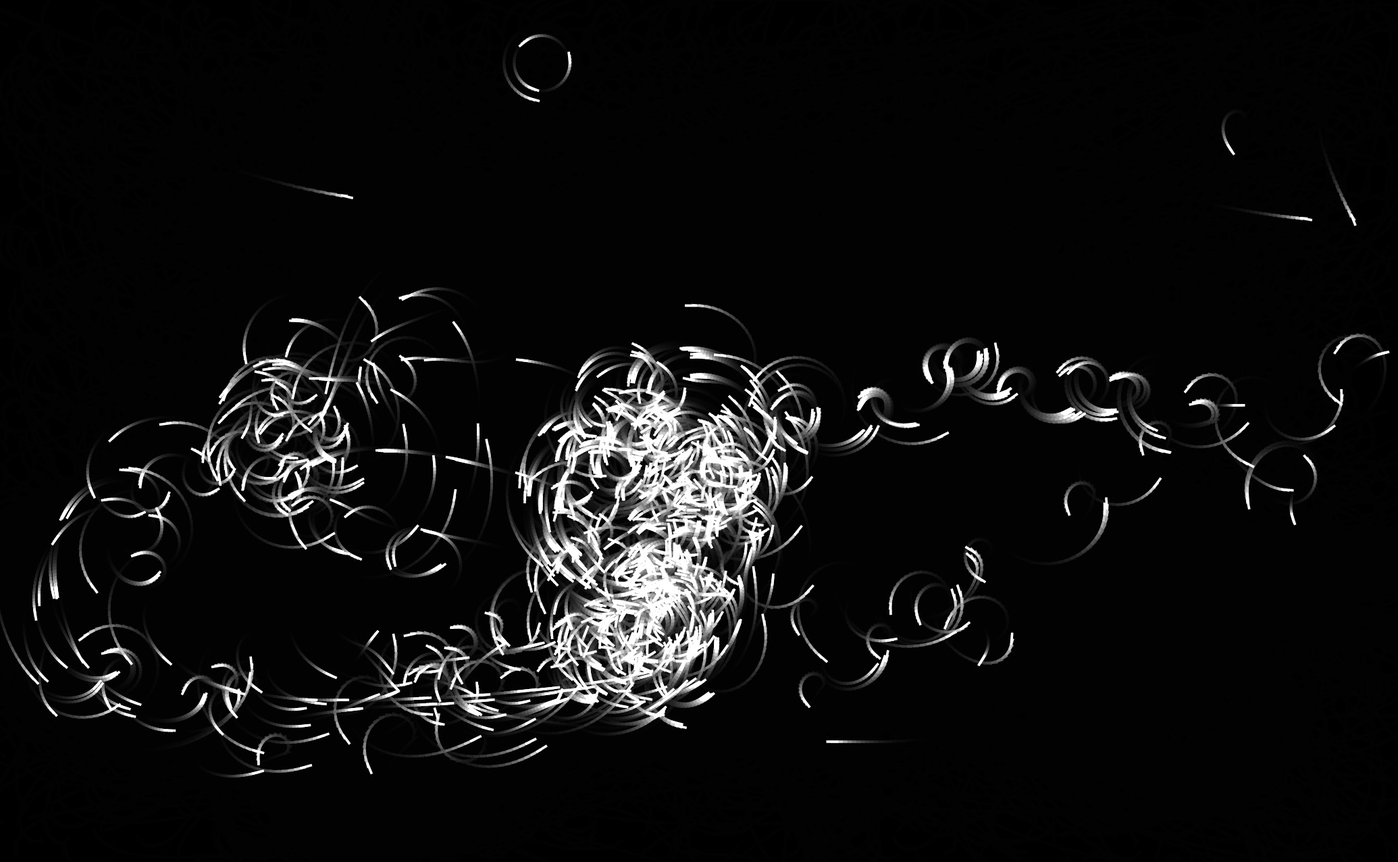
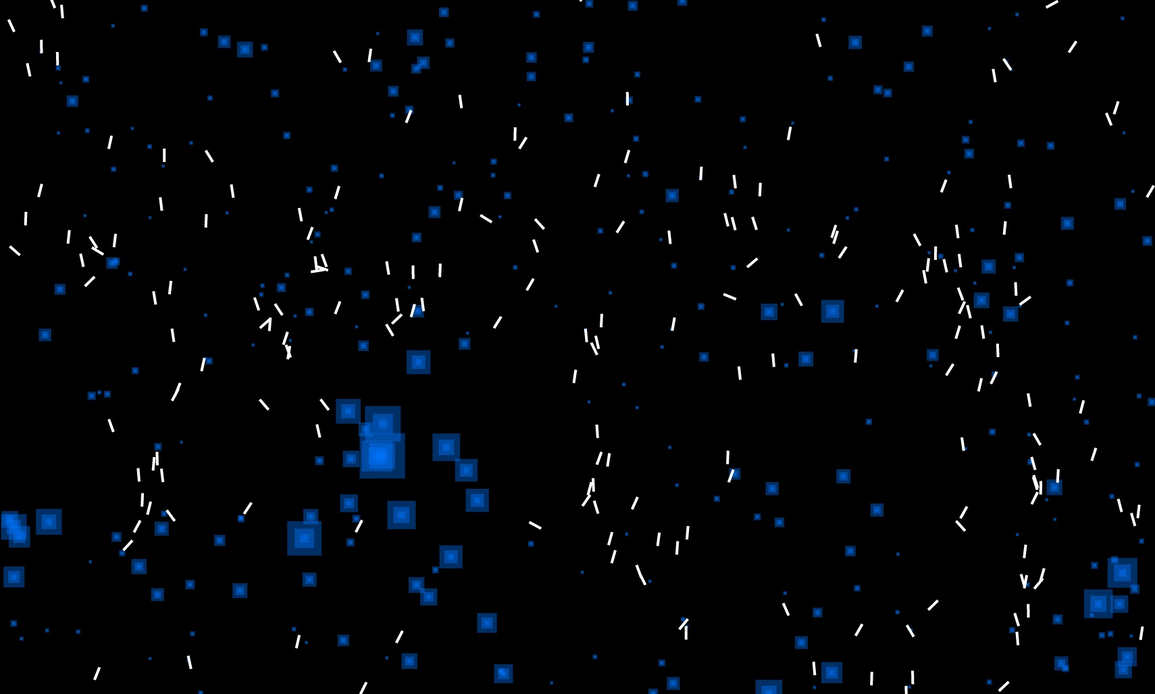
003 build

diff --git a/003-feeding-time/bundle.js b/003-feeding-time/bundle.js
@@ -1,11 +1,11 @@
 (function(){function r(e,n,t){function o(i,f){if(!n[i]){if(!e[i]){var c="function"==typeof require&&require;if(!f&&c)return c(i,!0);if(u)return u(i,!0);var a=new Error("Cannot find module '"+i+"'");throw a.code="MODULE_NOT_FOUND",a}var p=n[i]={exports:{}};e[i][0].call(p.exports,function(r){var n=e[i][1][r];return o(n||r)},p,p.exports,r,e,n,t)}return n[i].exports}for(var u="function"==typeof require&&require,i=0;i<t.length;i++)o(t[i]);return o}return r})()({1:[function(require,module,exports){
-"use strict";var Simplex=require(7),setupRandom=require(5),initializeShortcuts=require(3),_require=require(2),setupCanvas=_require.setupCanvas,loop=_require.loop,generateSeed=_require.generateSeed,lerp=require(6),TAU=2*Math.PI,seed=generateSeed(),random=setupRandom(seed),simplex=new Simplex(random),simplex3=simplex.noise3D.bind(simplex),ctx=setupCanvas();initializeShortcuts(seed);var config={ctx:ctx,seed:seed,random:random,simplex3:simplex3,lonelyRotation:.005,breakoutCount:10,entityCount:2e3,entitySize:10,baseSpeed:2,maxSpeed:5,rotateToBuddy:.1},current={entities:generateEntities(config)};function update(e,t){var i=t.entities,n=(t.time,e.ctx),a=e.entitySize,r=e.maxSpeed,o=e.simplex3,d=e.lonelyRotation,l=n.canvas,u=l.width,s=l.height,h=!0,c=!1,p=void 0;try{for(var y,x=i[Symbol.iterator]();!(h=(y=x.next()).done);h=!0){var m=y.value;null===m.buddy?m.theta=Math.PI*o(m.x*d,m.y*d,m.index):applyBuddyForce(e,m,i[m.buddy]),m.speed=Math.min(m.speed,r),m.x+=Math.cos(m.theta)*m.speed,m.y+=Math.sin(m.theta)*m.speed,m.x<-a?m.x=u+a:m.x>u+a&&(m.x=-a),m.y<-a?m.y=s+a:m.y>s+a&&(m.y=-a)}}catch(e){c=!0,p=e}finally{try{h||null==x.return||x.return()}finally{if(c)throw p}}}function applyBuddyForce(e,t,i){var n=e.rotateToBuddy,a=i.x-t.x,r=i.y-t.y;t.theta=lerpTheta(t.theta,Math.atan2(r,a),n)%TAU,t.speed+=Math.min(1,1/(a*a+r*r)),t.x+=Math.cos(t.theta)*t.speed,t.y+=Math.sin(t.theta)*t.speed}function lerpTheta(e,t,i){return(t=(t%TAU+TAU)%TAU)-(e=(e%TAU+TAU)%TAU)>Math.PI&&(e+=TAU),lerp(e,t,i)}function generateEntities(e){for(var t=e.entityCount,i=e.ctx,n=e.baseSpeed,a=e.random,r=e.breakoutCount,o=i.canvas,d=o.width,l=o.height,u=[],s=0;s<t;s++)u.push({index:s,x:a(d),y:a(l),theta:a(TAU),speed:n,buddy:(s+a(0,t-1,!0))%t});for(var h=0;h<r;h++){var c=u[a(0,u.length,!0)].buddy;null!==c&&(u[c].buddy=null)}return u}function draw(e,t){var i=e.ctx,n=e.entitySize,a=t.entities;t.time;i.fillStyle="#0003",i.fillRect(0,0,i.canvas.width,i.canvas.height),i.lineWidth=2*devicePixelRatio,i.strokeStyle="#fff",i.beginPath();var r=n*devicePixelRatio/2,o=!0,d=!1,l=void 0;try{for(var u,s=a[Symbol.iterator]();!(o=(u=s.next()).done);o=!0){var h=u.value,c=h.x,p=h.y,y=h.theta,x=Math.cos(y)*r,m=Math.sin(y)*r;i.moveTo(c-x,p-m),i.lineTo(c+x,p+m)}}catch(e){d=!0,l=e}finally{try{o||null==s.return||s.return()}finally{if(d)throw l}}i.stroke()}loop(function(e){current.time=e,update(config,current),draw(config,current)}),window.onhashchange=function(){location.reload()},window.addEventListener("resize",function(){});
+"use strict";var Simplex=require(12),setupRandom=require(5),initializeShortcuts=require(3),_require=require(2),setupCanvas=_require.setupCanvas,loop=_require.loop,generateSeed=_require.generateSeed,lerpTheta=_require.lerpTheta,createRtree=require(9),ease=require(6),TAU=2*Math.PI,seed=generateSeed(),random=setupRandom(seed),simplex=new Simplex(random),simplex3=simplex.noise3D.bind(simplex),ctx=setupCanvas();initializeShortcuts(seed);var config={ctx:ctx,seed:seed,random:random,simplex3:simplex3,entityRotation:.5,entityCount:200,entitySize:10,baseEntitySpeed:2,baseEntityFood:10,minSpeed:1,maxSpeed:5,foodCount:300,minGrowthRate:.1,maxGrowthRate:.5,minQuantity:20,maxQuantity:200,foodSize:.5,foodSteps:4,searchRadius:100,minFeedQuantity:5,entitySlowDown:.5,entitySpeedUp:.01,feedRate:.7},rtree=createRtree(),current={rtree:rtree,entities:generateEntities(config),foods:generateFood(config,rtree),now:Date.now(),dt:0};function updateFoods(e,t){var r=!0,n=!1,i=void 0;try{for(var a,o=t.foods[Symbol.iterator]();!(r=(a=o.next()).done);r=!0){var d=a.value;d.quantity=Math.min(d.quantity+d.growthRate,d.maxQuantity)}}catch(e){n=!0,i=e}finally{try{r||null==o.return||o.return()}finally{if(n)throw i}}}function updateEntities(e,t){var r=t.entities,n=t.rtree,i=e.ctx,a=e.entitySize,o=e.maxSpeed,d=e.simplex3,u=e.entityRotation,l=e.searchRadius,s=e.minFeedQuantity,y=e.entitySlowDown,c=e.entitySpeedUp,f=e.feedRate,h=e.minSpeed,v=i.canvas,x=v.width,m=v.height,p=!0,w=!1,S=void 0;try{for(var g,R=r[Symbol.iterator]();!(p=(g=R.next()).done);p=!0){var q=g.value,b=q.x,F=q.y,M=n.bbox(b-l,F-l,b+l,F+l),T=void 0,E=void 0;if(M.length>0){var z=void 0,Q=void 0,C=!0,P=!1,_=void 0;try{for(var D,G=M[Symbol.iterator]();!(C=(D=G.next()).done);C=!0){var U=D.value;if(!(U.quantity<s)){var k=b-U.x,A=F-U.y,I=k*k+A*A;z?I/U.quantity<Q/z.quantity&&(z=U):(z=U,Q=I)}}}catch(e){P=!0,_=e}finally{try{C||null==G.return||G.return()}finally{if(P)throw _}}T=z,E=Q}var L=void 0;T&&T.quantity>10?(L=Math.atan2(q.y-T.y,q.x-T.x),q.speed/=1+y*T.quantity/E,T.quantity-=f):(q.speed*=1+c,q.speed=Math.max(h,q.speed),L=Math.PI*d(q.x*u,q.y*u,q.index)),q.theta=lerpTheta(q.theta,L,.1),q.speed=Math.min(q.speed,o),q.x+=Math.cos(q.theta)*q.speed,q.y+=Math.sin(q.theta)*q.speed,q.x<-a?q.x=x+a:q.x>x+a&&(q.x=-a),q.y<-a?q.y=m+a:q.y>m+a&&(q.y=-a)}}catch(e){w=!0,S=e}finally{try{p||null==R.return||R.return()}finally{if(w)throw S}}}function generateEntities(e){for(var t=e.entityCount,r=e.ctx,n=e.baseEntitySpeed,i=e.baseEntityFood,a=e.random,o=r.canvas,d=o.width,u=o.height,l=[],s=0;s<t;s++)l.push({index:s,x:(ease(a(1,0))+.5)%1*d,y:a(u),food:i,theta:a(TAU),speed:n});return l}function draw(e,t){var r=e.ctx,n=e.entitySize,i=e.foodSize,a=e.foodSteps,o=t.entities,d=t.foods;r.fillStyle="#000",r.fillRect(0,0,r.canvas.width,r.canvas.height),r.fillStyle="#07f6";var u=!0,l=!1,s=void 0;try{for(var y,c=d[Symbol.iterator]();!(u=(y=c.next()).done);u=!0)for(var f=y.value,h=f.quantity,v=f.x,x=f.y,m=h*i,p=1;p<=a;p++){var w=m*Math.pow(p/a,2);r.fillRect(v-.5*w,x-.5*w,w,w)}}catch(e){l=!0,s=e}finally{try{u||null==c.return||c.return()}finally{if(l)throw s}}r.lineWidth=2*devicePixelRatio,r.strokeStyle="#fff",r.beginPath();var S=n*devicePixelRatio,g=!0,R=!1,q=void 0;try{for(var b,F=o[Symbol.iterator]();!(g=(b=F.next()).done);g=!0){var M=b.value,T=M.x,E=M.y,z=M.theta,Q=Math.cos(z)*S,C=Math.sin(z)*S;r.moveTo(T,E),r.lineTo(T-Q,E-C)}}catch(e){R=!0,q=e}finally{try{g||null==F.return||F.return()}finally{if(R)throw q}}r.stroke()}function generateFood(e,t){for(var r=e.minQuantity,n=e.maxQuantity,i=e.minGrowthRate,a=e.maxGrowthRate,o=e.random,d=e.foodCount,u=e.ctx.canvas,l=u.width,s=u.height,y=[],c=0;c<d;c++){var f=o(r,n,!0);y.push({maxQuantity:f,quantity:o(f),x:o()*l,y:o()*s,growthRate:o(i,a)})}return addFoodsToRtree(y,t),y}function addFoodsToRtree(e,t){var r=!0,n=!1,i=void 0;try{for(var a,o=e[Symbol.iterator]();!(r=(a=o.next()).done);r=!0){var d=a.value;t.insert({x:d.x-.5,y:d.y-.5,w:1,h:1},d)}}catch(e){n=!0,i=e}finally{try{r||null==o.return||o.return()}finally{if(n)throw i}}}loop(function(e){current.dt=e-current.time,current.time=e,updateFoods(config,current),updateEntities(config,current),draw(config,current)}),window.addEventListener("resize",function(){current.rtree=createRtree();var e=!0,t=!1,r=void 0;try{for(var n,i=current.foods[Symbol.iterator]();!(e=(n=i.next()).done);e=!0){var a=n.value;a.x=random()*ctx.canvas.width,a.y=random()*ctx.canvas.height}}catch(e){t=!0,r=e}finally{try{e||null==i.return||i.return()}finally{if(t)throw r}}addFoodsToRtree(current.foods,current.rtree)}),window.current=current,window.config=config;
 
-},{"2":2,"3":3,"5":5,"6":6,"7":7}],2:[function(require,module,exports){
-"use strict";function setupCanvas(){var e=document.createElement("canvas");function n(){e.width=window.innerWidth*devicePixelRatio,e.height=window.innerHeight*devicePixelRatio}return document.body.appendChild(e),n(),window.addEventListener("resize",n,!1),e.getContext("2d",{alpha:!1})}function loop(e){var n=Date.now();requestAnimationFrame(function t(){e((Date.now()-n)/1e3),requestAnimationFrame(t)})}function generateSeed(){var e=window.location.hash.substr(1)||String(Math.random()).split(".")[1];return console.log("current seed",e),e}module.exports={setupCanvas:setupCanvas,loop:loop,generateSeed:generateSeed};
+},{"12":12,"2":2,"3":3,"5":5,"6":6,"9":9}],2:[function(require,module,exports){
+"use strict";var lerp=require(7);function setupCanvas(){var e=document.createElement("canvas");function n(){e.width=window.innerWidth*devicePixelRatio,e.height=window.innerHeight*devicePixelRatio}return document.body.appendChild(e),n(),window.addEventListener("resize",n,!1),e.getContext("2d",{alpha:!1})}function loop(e){var n=Date.now();requestAnimationFrame(function t(){e((Date.now()-n)/1e3),requestAnimationFrame(t)})}function generateSeed(){var e=window.location.hash.substr(1)||String(Math.random()).split(".")[1];return console.log("current seed",e),window.onhashchange=function(){location.reload()},e}var TAU=Math.PI;function lerpTheta(e,n,t){return(n=(n%TAU+TAU)%TAU)-(e=(e%TAU+TAU)%TAU)>Math.PI&&(e+=TAU),lerp(e,n,t)}module.exports={setupCanvas:setupCanvas,loop:loop,generateSeed:generateSeed,lerpTheta:lerpTheta};
 
-},{}],3:[function(require,module,exports){
-"use strict";function _click(e){var t=document.querySelector(e);t&&t.click()}module.exports=function(e,t){console.log(["Available shortcuts:","f: enter fullscreen","h: hide the ui","r: reload the ui","s: create a screenshot link","u: save the current seed to the URL","left: previous session","right: next session"].join("\n")),window.addEventListener("keydown",function(n){switch(n.key){case"h":document.body.classList.toggle("hide-ui");break;case"r":window.location.reload();break;case"s":var o=document.querySelector("canvas");if(!o){console.log("Could not find a canvas element to screenshot");break}var c=document.querySelector(".download-link");c||((c=document.createElement("a")).className="download-link",document.body.appendChild(c),c.innerHTML="Download Screenshot",c.target="_blank",c.addEventListener("click",function(){c.style.display="none"})),c.href=o.toDataURL(),c.style.display="inline-block";break;case"u":history.pushState(null,document.title,window.location.pathname+"#"+e);break;case"f":if(document.fullscreenElement)document.exitFullscreen&&document.exitFullscreen();else{var l=document.querySelector("canvas");l.requestFullscreen&&l.requestFullscreen()}t&&t();break;case"ArrowLeftt":_click("#prev");break;case"ArrowRight":_click("#next")}},!1)};
+},{"7":7}],3:[function(require,module,exports){
+"use strict";function _click(e){var n=document.querySelector(e);n&&n.click()}module.exports=function(e,n){console.log(["Available shortcuts:","f: enter fullscreen","h: hide the ui","r: reload the ui","s: create a screenshot link","u: save the current seed to the URL","left: previous session","right: next session"].join("\n")),window.addEventListener("keydown",function(t){switch(t.key){case"h":document.body.classList.toggle("hide-ui");break;case"r":window.location.reload();break;case"s":var o=document.querySelector("canvas");if(!o){console.log("Could not find a canvas element to screenshot");break}var c=document.querySelector(".download-link");c||((c=document.createElement("a")).className="download-link",document.body.appendChild(c),c.innerHTML="Download Screenshot",c.target="_blank",c.addEventListener("click",function(){c.style.display="none"})),c.href=o.toDataURL(),c.style.display="inline-block";break;case"u":history.pushState(null,document.title,window.location.pathname+"#"+e);break;case"f":if(document.fullscreenElement)document.exitFullscreen&&document.exitFullscreen();else{var l=document.querySelector("canvas");l.requestFullscreen&&l.requestFullscreen()}n&&n();break;case"ArrowLeft":_click("#prev");break;case"ArrowRight":_click("#next")}},!1)};
 
 },{}],4:[function(require,module,exports){
 function _mashFn(){var r=4022871197;return function(n){n=n.toString();for(var t=0;t<n.length;t++){var e=.02519603282416938*(r+=n.charCodeAt(t));e-=r=e>>>0,r=(e*=r)>>>0,r+=4294967296*(e-=r)}return 2.3283064365386963e-10*(r>>>0)}}module.exports=function(){var r=Array.prototype.slice.call(arguments),n=0,t=0,e=0,a=1;0===r.length&&(r=[+new Date]);var o=_mashFn();n=t=e=o(" ");for(var u=0;u<r.length;u++)(n-=o(r[u]))<0&&(n+=1),(t-=o(r[u]))<0&&(t+=1),(e-=o(r[u]))<0&&(e+=1);return function(){var r=2091639*n+2.3283064365386963e-10*a;return n=t,t=e,e=r-(a=0|r)}};
@@ -14,9 +14,24 @@ function _mashFn(){var r=4022871197;return function(n){n=n.toString();for(var t=
 var Alea=require(4);module.exports=function(){var r=Alea.apply(this,arguments);return function(e,a,n){a=void 0===a?1:a;var t=(e=void 0===e?0:e)+r()*(a-e);return n?parseInt(t,10):t}};
 
 },{"4":4}],6:[function(require,module,exports){
-function lerp(e,r,l){return e*(1-l)+r*l}module.exports=lerp;
+function sineInOut(n){return-.5*(Math.cos(Math.PI*n)-1)}module.exports=sineInOut;
 
 },{}],7:[function(require,module,exports){
+function lerp(e,r,l){return e*(1-l)+r*l}module.exports=lerp;
+
+},{}],8:[function(require,module,exports){
+"use strict";var rectangle=require(10),bbox=function(e,o){if(o&&o.bbox)return{leaf:o,x:o.bbox[0],y:o.bbox[1],w:o.bbox[2]-o.bbox[0],h:o.bbox[3]-o.bbox[1]};for(var t=e.length,r=0,n=new Array(t);r<t;)n[r]=[e[r][0],e[r][1]],r++;var a=n[0];t=n.length,r=1;for(var i={min:[].concat(a),max:[].concat(a)};r<t;)n[r][0]<i.min[0]?i.min[0]=n[r][0]:n[r][0]>i.max[0]&&(i.max[0]=n[r][0]),n[r][1]<i.min[1]?i.min[1]=n[r][1]:n[r][1]>i.max[1]&&(i.max[1]=n[r][1]),r++;var c={x:i.min[0],y:i.min[1],w:i.max[0]-i.min[0],h:i.max[1]-i.min[1]};return o&&(c.leaf=o),c},geoJSON={point:function(e,o){return o.insertSubtree({x:e.geometry.coordinates[0],y:e.geometry.coordinates[1],w:0,h:0,leaf:e},o.root)},multiPointLineString:function(e,o){return o.insertSubtree(bbox(e.geometry.coordinates,e),o.root)},multiLineStringPolygon:function(e,o){return o.insertSubtree(bbox(Array.prototype.concat.apply([],e.geometry.coordinates),e),o.root)},multiPolygon:function(e,o){return o.insertSubtree(bbox(Array.prototype.concat.apply([],Array.prototype.concat.apply([],e.geometry.coordinates)),e),o.root)},makeRec:function(e){return rectangle(e.x,e.y,e.w,e.h)},geometryCollection:function(e,o){if(e.bbox)return o.insertSubtree({leaf:e,x:e.bbox[0],y:e.bbox[1],w:e.bbox[2]-e.bbox[0],h:e.bbox[3]-e.bbox[1]},o.root);for(var t,r=e.geometry.geometries,n=0,a=r.length,i=[];n<a;){switch((t=r[n]).type){case"Point":i.push(geoJSON.makeRec({x:t.coordinates[0],y:t.coordinates[1],w:0,h:0}));break;case"MultiPoint":case"LineString":i.push(geoJSON.makeRec(bbox(t.coordinates)));break;case"MultiLineString":case"Polygon":i.push(geoJSON.makeRec(bbox(Array.prototype.concat.apply([],t.coordinates))));break;case"MultiPolygon":i.push(geoJSON.makeRec(bbox(Array.prototype.concat.apply([],Array.prototype.concat.apply([],t.coordinates)))));break;case"GeometryCollection":a=(r=r.concat(t.geometries)).length}n++}var c=i[0];for(n=1,a=i.length;n<a;)c.expand(i[n]),n++;return o.insertSubtree({leaf:e,x:c.x(),y:c.y(),h:c.h(),w:c.w()},o.root)}};exports.geoJSON=function(e){var o,t;if(Array.isArray(e))o=e.slice();else if(e.features&&Array.isArray(e.features))o=e.features.slice();else{if(!(e instanceof Object))throw"this isn't what we're looking for";o=[e]}for(var r=o.length,n=0;n<r;){if("Feature"===(t=o[n]).type)switch(t.geometry.type){case"Point":geoJSON.point(t,this);break;case"MultiPoint":case"LineString":geoJSON.multiPointLineString(t,this);break;case"MultiLineString":case"Polygon":geoJSON.multiLineStringPolygon(t,this);break;case"MultiPolygon":geoJSON.multiPolygon(t,this);break;case"GeometryCollection":geoJSON.geometryCollection(t,this)}n++}},exports.bbox=function(){var e,o,t,r;switch(arguments.length){case 1:e=arguments[0][0][0],o=arguments[0][0][1],t=arguments[0][1][0],r=arguments[0][1][1];break;case 2:e=arguments[0][0],o=arguments[0][1],t=arguments[1][0],r=arguments[1][1];break;case 4:e=arguments[0],o=arguments[1],t=arguments[2],r=arguments[3]}return this.search({x:e,y:o,w:t-e,h:r-o})};
+
+},{"10":10}],9:[function(require,module,exports){
+"use strict";var RTree=require(11),geojson=require(8);RTree.prototype.bbox=geojson.bbox,RTree.prototype.geoJSON=geojson.geoJSON,RTree.Rectangle=require(10),module.exports=RTree;
+
+},{"10":10,"11":11,"8":8}],10:[function(require,module,exports){
+"use strict";function Rectangle(n,t,e,r){if(!(this instanceof Rectangle))return new Rectangle(n,t,e,r);var x,i,u;n.x?(e=n.w,r=n.h,t=n.y,0!==n.w&&!n.w&&n.x2?(e=n.x2-n.x,r=n.y2-n.y):(e=n.w,r=n.h),n=n.x,x=n+e,i=t+r,u=!(r+e)):(x=n+e,i=t+r,u=!(r+e)),this.x1=this.x=function(){return n},this.y1=this.y=function(){return t},this.x2=function(){return x},this.y2=function(){return i},this.w=function(){return e},this.h=function(){return r},this.p=function(){return u},this.overlap=function(e){return u||e.p()?n<=e.x2()&&x>=e.x()&&t<=e.y2()&&i>=e.y():n<e.x2()&&x>e.x()&&t<e.y2()&&i>e.y()},this.expand=function(u){var y,c,h=u.x(),a=u.y(),o=u.x2(),f=u.y2();return y=n>h?h:n,c=t>a?a:t,e=x>o?x-y:o-y,r=i>f?i-c:f-c,n=y,t=c,this}}Rectangle.overlapRectangle=function(n,t){return 0===n.h&&0===n.w||0===t.h&&0===t.w?n.x<=t.x+t.w&&n.x+n.w>=t.x&&n.y<=t.y+t.h&&n.y+n.h>=t.y:n.x<t.x+t.w&&n.x+n.w>t.x&&n.y<t.y+t.h&&n.y+n.h>t.y},Rectangle.containsRectangle=function(n,t){return n.x+n.w<=t.x+t.w&&n.x>=t.x&&n.y+n.h<=t.y+t.h&&n.y>=t.y},Rectangle.expandRectangle=function(n,t){var e,r,x=n.x+n.w,i=t.x+t.w,u=n.y+n.h,y=t.y+t.h;return e=n.x>t.x?t.x:n.x,r=n.y>t.y?t.y:n.y,n.w=x>i?x-e:i-e,n.h=u>y?u-r:y-r,n.x=e,n.y=r,n},Rectangle.makeMBR=function(n,t){if(!n.length)return{x:0,y:0,w:0,h:0};(t=t||{}).x=n[0].x,t.y=n[0].y,t.w=n[0].w,t.h=n[0].h;for(var e=1,r=n.length;e<r;e++)Rectangle.expandRectangle(t,n[e]);return t},Rectangle.squarifiedRatio=function(n,t,e){var r=(n+t)/2,x=n*t;return x*e/(x/(r*r))},module.exports=Rectangle;
+
+},{}],11:[function(require,module,exports){
+"use strict";var rectangle=require(10);function RTree(e){if(!(this instanceof RTree))return new RTree(e);var n=3,t=6;isNaN(e)||(n=Math.floor(e/2),t=e);var r={x:0,y:0,w:0,h:0,id:"root",nodes:[]};this.root=r;var a=function(e){for(var n,t=e.slice(),r=[];t.length;)(n=t.pop()).nodes?t=t.concat(n.nodes):n.leaf&&r.push(n);return r},s=function(e,t,r){var s,o,h,i=[],d=[],g=[];if(!e||!rectangle.overlapRectangle(e,r))return g;var f={x:e.x,y:e.y,w:e.w,h:e.h,target:t};for(d.push(r.nodes.length),i.push(r);i.length>0;){if(s=i.pop(),o=d.pop()-1,"target"in f)for(;o>=0;){if(h=s.nodes[o],rectangle.overlapRectangle(f,h)){if(f.target&&"leaf"in h&&h.leaf===f.target||!f.target&&("leaf"in h||rectangle.containsRectangle(h,f))){g="nodes"in h?a(s.nodes.splice(o,1)):s.nodes.splice(o,1),rectangle.makeMBR(s.nodes,s),delete f.target;break}"nodes"in h&&(0,d.push(o),i.push(s),s=h,o=h.nodes.length)}o--}else if("nodes"in f){s.nodes.splice(o+1,1),s.nodes.length>0&&rectangle.makeMBR(s.nodes,s);for(var u=0;u<f.nodes.length;u++)c(f.nodes[u],s);f.nodes=[],0===i.length&&s.nodes.length<=1?(f.nodes=l(s,!0,f.nodes,s),s.nodes=[],i.push(s),d.push(1)):i.length>0&&s.nodes.length<n?(f.nodes=l(s,!0,f.nodes,s),s.nodes=[]):delete f.nodes}else rectangle.makeMBR(s.nodes,s);1}return g},o=function(e){for(var n=i(e);e.length>0;)h(e,n[0],n[1]);return n},h=function(e,t,r){for(var a,s,o,h=rectangle.squarifiedRatio(t.w,t.h,t.nodes.length+1),i=rectangle.squarifiedRatio(r.w,r.h,r.nodes.length+1),l=e.length-1;l>=0;l--){var c=e[l],d={};d.x=Math.min(t.x,c.x),d.y=Math.min(t.y,c.y),d.w=Math.max(t.x+t.w,c.x+c.w)-d.x,d.h=Math.max(t.y+t.h,c.y+c.h)-d.y;var g=Math.abs(rectangle.squarifiedRatio(d.w,d.h,t.nodes.length+2)-h),f={};f.x=Math.min(r.x,c.x),f.y=Math.min(r.y,c.y),f.w=Math.max(r.x+r.w,c.x+c.w)-f.x,f.h=Math.max(r.y+r.h,c.y+c.h)-f.y;var u=Math.abs(rectangle.squarifiedRatio(f.w,f.h,r.nodes.length+2)-i);(!s||!a||Math.abs(u-g)<a)&&(s=l,a=Math.abs(u-g),o=u<g?r:t)}var p=e.splice(s,1)[0];t.nodes.length+e.length+1<=n?(t.nodes.push(p),rectangle.expandRectangle(t,p)):r.nodes.length+e.length+1<=n?(r.nodes.push(p),rectangle.expandRectangle(r,p)):(o.nodes.push(p),rectangle.expandRectangle(o,p))},i=function(e){for(var n,t,r=e.length-1,a=0,s=e.length-1,o=0,h=e.length-2;h>=0;h--){var i=e[h];i.x>e[a].x?a=h:i.x+i.w<e[r].x+e[r].w&&(r=h),i.y>e[o].y?o=h:i.y+i.h<e[s].y+e[s].h&&(s=h)}return Math.abs(e[r].x+e[r].w-e[a].x)>Math.abs(e[s].y+e[s].h-e[o].y)?r>a?(n=e.splice(r,1)[0],t=e.splice(a,1)[0]):(t=e.splice(a,1)[0],n=e.splice(r,1)[0]):s>o?(n=e.splice(s,1)[0],t=e.splice(o,1)[0]):(t=e.splice(o,1)[0],n=e.splice(s,1)[0]),[{x:n.x,y:n.y,w:n.w,h:n.h,nodes:[n]},{x:t.x,y:t.y,w:t.w,h:t.h,nodes:[t]}]},l=function(e,n,t,r){var a=[];if(!rectangle.overlapRectangle(e,r))return t;for(a.push(r.nodes);a.length>0;)for(var s=a.pop(),o=s.length-1;o>=0;o--){var h=s[o];rectangle.overlapRectangle(e,h)&&("nodes"in h?a.push(h.nodes):"leaf"in h&&(n?t.push(h):t.push(h.leaf)))}return t},c=function(e,n){var r;if(0===n.nodes.length)return n.x=e.x,n.y=e.y,n.w=e.w,n.h=e.h,void n.nodes.push(e);for(var a,s=function(e,n){var t,r=-1,a=[],s=!0;a.push(n);for(var o=n.nodes;s||-1!==r;){s?s=!1:(a.push(o[r]),o=o[r].nodes,r=-1);for(var h=o.length-1;h>=0;h--){var i=o[h];if("leaf"in i){r=-1;break}var l=rectangle.squarifiedRatio(i.w,i.h,i.nodes.length+1),c=Math.max(i.x+i.w,e.x+e.w)-Math.min(i.x,e.x),d=Math.max(i.y+i.h,e.y+e.h)-Math.min(i.y,e.y),g=rectangle.squarifiedRatio(c,d,i.nodes.length+2);(r<0||Math.abs(g-l)<t)&&(t=Math.abs(g-l),r=h)}}return a}(e,n),h=e;s.length>0;){if(r&&"nodes"in r&&0===r.nodes.length){a=r,r=s.pop();for(var i=0;i<r.nodes.length;i++)if(r.nodes[i]===a||0===r.nodes[i].nodes.length){r.nodes.splice(i,1);break}}else r=s.pop();if("leaf"in h||"nodes"in h||Array.isArray(h)){if(Array.isArray(h)){for(var l=0;l<h.length;l++)rectangle.expandRectangle(r,h[l]);r.nodes=r.nodes.concat(h)}else rectangle.expandRectangle(r,h),r.nodes.push(h);if(r.nodes.length<=t)h={x:r.x,y:r.y,w:r.w,h:r.h};else{var c=o(r.nodes);h=c,s.length<1&&(r.nodes.push(c[0]),s.push(r),h=c[1])}}else rectangle.expandRectangle(r,h),h={x:r.x,y:r.y,w:r.w,h:r.h}}};this.insertSubtree=c,this.getTree=function(){return r},this.setTree=function(e,n){return n||(n=r),a=e,(t=n).nodes=a.nodes,t.x=a.x,t.y=a.y,t.w=a.w,t.h=a.h,t;var t,a},this.search=function(e,n,t){return l(e,n,t=t||[],r)};this.remove=function(e,n){return n&&"function"!=typeof n?function(e,n){return s(e,n,r)}(e,n):function(e){for(var n,t=1,a=[];t>0;)t=(n=s(e,!1,r)).length,a=a.concat(n);return a}(e)},this.insert=function(e,n){return c({x:e.x,y:e.y,w:e.w,h:e.h,leaf:n},r)}}RTree.prototype.toJSON=function(e){return JSON.stringify(this.root,!1,e)},RTree.fromJSON=function(e){var n=new RTree;return n.setTree(JSON.parse(e)),n},module.exports=RTree,"function"!=typeof Array.isArray&&(Array.isArray=function(e){return"object"==typeof e&&"[object Array]"==={}.toString.call(e)});
+
+},{"10":10}],12:[function(require,module,exports){
 !function(){"use strict";var r=.5*(Math.sqrt(3)-1),e=(3-Math.sqrt(3))/6,t=1/6,a=(Math.sqrt(5)-1)/4,o=(5-Math.sqrt(5))/20;function i(r){var e;e="function"==typeof r?r:r?function(){var r=0,e=0,t=0,a=1,o=(i=4022871197,function(r){r=r.toString();for(var e=0;e<r.length;e++){var t=.02519603282416938*(i+=r.charCodeAt(e));t-=i=t>>>0,i=(t*=i)>>>0,i+=4294967296*(t-=i)}return 2.3283064365386963e-10*(i>>>0)});var i;r=o(" "),e=o(" "),t=o(" ");for(var n=0;n<arguments.length;n++)(r-=o(arguments[n]))<0&&(r+=1),(e-=o(arguments[n]))<0&&(e+=1),(t-=o(arguments[n]))<0&&(t+=1);return o=null,function(){var o=2091639*r+2.3283064365386963e-10*a;return r=e,e=t,t=o-(a=0|o)}}(r):Math.random,this.p=n(e),this.perm=new Uint8Array(512),this.permMod12=new Uint8Array(512);for(var t=0;t<512;t++)this.perm[t]=this.p[255&t],this.permMod12[t]=this.perm[t]%12}function n(r){var e,t=new Uint8Array(256);for(e=0;e<256;e++)t[e]=e;for(e=0;e<255;e++){var a=e+~~(r()*(256-e)),o=t[e];t[e]=t[a],t[a]=o}return t}i.prototype={grad3:new Float32Array([1,1,0,-1,1,0,1,-1,0,-1,-1,0,1,0,1,-1,0,1,1,0,-1,-1,0,-1,0,1,1,0,-1,1,0,1,-1,0,-1,-1]),grad4:new Float32Array([0,1,1,1,0,1,1,-1,0,1,-1,1,0,1,-1,-1,0,-1,1,1,0,-1,1,-1,0,-1,-1,1,0,-1,-1,-1,1,0,1,1,1,0,1,-1,1,0,-1,1,1,0,-1,-1,-1,0,1,1,-1,0,1,-1,-1,0,-1,1,-1,0,-1,-1,1,1,0,1,1,1,0,-1,1,-1,0,1,1,-1,0,-1,-1,1,0,1,-1,1,0,-1,-1,-1,0,1,-1,-1,0,-1,1,1,1,0,1,1,-1,0,1,-1,1,0,1,-1,-1,0,-1,1,1,0,-1,1,-1,0,-1,-1,1,0,-1,-1,-1,0]),noise2D:function(t,a){var o,i,n=this.permMod12,f=this.perm,s=this.grad3,v=0,h=0,l=0,u=(t+a)*r,d=Math.floor(t+u),p=Math.floor(a+u),M=(d+p)*e,m=t-(d-M),c=a-(p-M);m>c?(o=1,i=0):(o=0,i=1);var y=m-o+e,w=c-i+e,g=m-1+2*e,A=c-1+2*e,x=255&d,q=255&p,D=.5-m*m-c*c;if(D>=0){var S=3*n[x+f[q]];v=(D*=D)*D*(s[S]*m+s[S+1]*c)}var U=.5-y*y-w*w;if(U>=0){var b=3*n[x+o+f[q+i]];h=(U*=U)*U*(s[b]*y+s[b+1]*w)}var F=.5-g*g-A*A;if(F>=0){var N=3*n[x+1+f[q+1]];l=(F*=F)*F*(s[N]*g+s[N+1]*A)}return 70*(v+h+l)},noise3D:function(r,e,a){var o,i,n,f,s,v,h,l,u,d,p=this.permMod12,M=this.perm,m=this.grad3,c=(r+e+a)*(1/3),y=Math.floor(r+c),w=Math.floor(e+c),g=Math.floor(a+c),A=(y+w+g)*t,x=r-(y-A),q=e-(w-A),D=a-(g-A);x>=q?q>=D?(s=1,v=0,h=0,l=1,u=1,d=0):x>=D?(s=1,v=0,h=0,l=1,u=0,d=1):(s=0,v=0,h=1,l=1,u=0,d=1):q<D?(s=0,v=0,h=1,l=0,u=1,d=1):x<D?(s=0,v=1,h=0,l=0,u=1,d=1):(s=0,v=1,h=0,l=1,u=1,d=0);var S=x-s+t,U=q-v+t,b=D-h+t,F=x-l+2*t,N=q-u+2*t,C=D-d+2*t,P=x-1+.5,T=q-1+.5,_=D-1+.5,j=255&y,k=255&w,z=255&g,B=.6-x*x-q*q-D*D;if(B<0)o=0;else{var E=3*p[j+M[k+M[z]]];o=(B*=B)*B*(m[E]*x+m[E+1]*q+m[E+2]*D)}var G=.6-S*S-U*U-b*b;if(G<0)i=0;else{var H=3*p[j+s+M[k+v+M[z+h]]];i=(G*=G)*G*(m[H]*S+m[H+1]*U+m[H+2]*b)}var I=.6-F*F-N*N-C*C;if(I<0)n=0;else{var J=3*p[j+l+M[k+u+M[z+d]]];n=(I*=I)*I*(m[J]*F+m[J+1]*N+m[J+2]*C)}var K=.6-P*P-T*T-_*_;if(K<0)f=0;else{var L=3*p[j+1+M[k+1+M[z+1]]];f=(K*=K)*K*(m[L]*P+m[L+1]*T+m[L+2]*_)}return 32*(o+i+n+f)},noise4D:function(r,e,t,i){var n,f,s,v,h,l,u,d,p,M,m,c,y,w,g,A,x,q=this.perm,D=this.grad4,S=(r+e+t+i)*a,U=Math.floor(r+S),b=Math.floor(e+S),F=Math.floor(t+S),N=Math.floor(i+S),C=(U+b+F+N)*o,P=r-(U-C),T=e-(b-C),_=t-(F-C),j=i-(N-C),k=0,z=0,B=0,E=0;P>T?k++:z++,P>_?k++:B++,P>j?k++:E++,T>_?z++:B++,T>j?z++:E++,_>j?B++:E++;var G=P-(l=k>=3?1:0)+o,H=T-(u=z>=3?1:0)+o,I=_-(d=B>=3?1:0)+o,J=j-(p=E>=3?1:0)+o,K=P-(M=k>=2?1:0)+2*o,L=T-(m=z>=2?1:0)+2*o,O=_-(c=B>=2?1:0)+2*o,Q=j-(y=E>=2?1:0)+2*o,R=P-(w=k>=1?1:0)+3*o,V=T-(g=z>=1?1:0)+3*o,W=_-(A=B>=1?1:0)+3*o,X=j-(x=E>=1?1:0)+3*o,Y=P-1+4*o,Z=T-1+4*o,$=_-1+4*o,rr=j-1+4*o,er=255&U,tr=255&b,ar=255&F,or=255&N,ir=.6-P*P-T*T-_*_-j*j;if(ir<0)n=0;else{var nr=q[er+q[tr+q[ar+q[or]]]]%32*4;n=(ir*=ir)*ir*(D[nr]*P+D[nr+1]*T+D[nr+2]*_+D[nr+3]*j)}var fr=.6-G*G-H*H-I*I-J*J;if(fr<0)f=0;else{var sr=q[er+l+q[tr+u+q[ar+d+q[or+p]]]]%32*4;f=(fr*=fr)*fr*(D[sr]*G+D[sr+1]*H+D[sr+2]*I+D[sr+3]*J)}var vr=.6-K*K-L*L-O*O-Q*Q;if(vr<0)s=0;else{var hr=q[er+M+q[tr+m+q[ar+c+q[or+y]]]]%32*4;s=(vr*=vr)*vr*(D[hr]*K+D[hr+1]*L+D[hr+2]*O+D[hr+3]*Q)}var lr=.6-R*R-V*V-W*W-X*X;if(lr<0)v=0;else{var ur=q[er+w+q[tr+g+q[ar+A+q[or+x]]]]%32*4;v=(lr*=lr)*lr*(D[ur]*R+D[ur+1]*V+D[ur+2]*W+D[ur+3]*X)}var dr=.6-Y*Y-Z*Z-$*$-rr*rr;if(dr<0)h=0;else{var pr=q[er+1+q[tr+1+q[ar+1+q[or+1]]]]%32*4;h=(dr*=dr)*dr*(D[pr]*Y+D[pr+1]*Z+D[pr+2]*$+D[pr+3]*rr)}return 27*(n+f+s+v+h)}},i._buildPermutationTable=n,"undefined"!=typeof define&&define.amd&&define(function(){return i}),"undefined"!=typeof exports?exports.SimplexNoise=i:"undefined"!=typeof window&&(window.SimplexNoise=i),"undefined"!=typeof module&&(module.exports=i)}();
 
 },{}]},{},[1])

diff --git a/003-feeding-time/index.js b/003-feeding-time/index.js
@@ -3,8 +3,8 @@ const setupRandom = require("@tatumcreative/random");
 const initializeShortcuts = require("../lib/shortcuts");
 const { setupCanvas, loop, generateSeed, lerpTheta } = require("../lib/draw");
 const createRtree = require("rtree");
+const ease = require("eases/sine-in-out");
 const TAU = Math.PI * 2;
-const lerp = require("lerp");
 
 {
   const seed = generateSeed();
@@ -20,7 +20,6 @@ const lerp = require("lerp");
     seed,
     random,
     simplex3,
-    rtree: createRtree(),
     entityRotation: 0.5,
     entityCount: 200,
     entitySize: 10,
@@ -40,12 +39,16 @@ const lerp = require("lerp");
     entitySlowDown: 0.5,
     entitySpeedUp: 0.01,
     feedRate: 0.7,
+    quantityDistribution: 500,
   };
+
+  const rtree = createRtree();
 
   // Mutable state.
   const current = {
+    rtree,
     entities: generateEntities(config),
-    foods: generateFood(config),
+    foods: generateFood(config, rtree),
     now: Date.now(),
     dt: 0,
   };
@@ -58,7 +61,14 @@ const lerp = require("lerp");
     draw(config, current);
   });
 
-  window.addEventListener("resize", () => {});
+  window.addEventListener("resize", () => {
+    current.rtree = createRtree();
+    for (const food of current.foods) {
+      food.x = random() * ctx.canvas.width;
+      food.y = random() * ctx.canvas.height;
+    }
+    addFoodsToRtree(current.foods, current.rtree);
+  });
 
   window.current = current;
   window.config = config;
@@ -71,10 +81,9 @@ function updateFoods(config, current) {
 }
 
 function updateEntities(config, current) {
-  const { entities } = current;
+  const { entities, rtree } = current;
   const {
     ctx,
-    rtree,
     entitySize,
     maxSpeed,
     simplex3,
@@ -181,7 +190,7 @@ function generateEntities(config) {
   for (let i = 0; i < entityCount; i++) {
     entities.push({
       index: i,
-      x: random(width),
+      x: ((ease(random(1, 0)) + 0.5) % 1) * width,
       y: random(height),
       food: baseEntityFood,
       theta: random(TAU),
@@ -231,15 +240,16 @@ function draw(config, current) {
   ctx.stroke();
 }
 
-function generateFood(config) {
+function generateFood(config, rtree) {
   const {
     minQuantity,
     maxQuantity,
     minGrowthRate,
     maxGrowthRate,
+    quantityDistribution,
     random,
     foodCount,
-    rtree,
+    simplex3,
     ctx: {
       canvas: { width, height },
     },
@@ -247,15 +257,27 @@ function generateFood(config) {
 
   const foods = [];
   for (let foodIndex = 0; foodIndex < foodCount; foodIndex++) {
-    const max = random(minQuantity, maxQuantity, true);
-    const food = {
+    const x = random() * width;
+    const y = random() * height;
+    const max =
+      minQuantity +
+      (maxQuantity - minQuantity) *
+        (simplex3(x / quantityDistribution, y / quantityDistribution, 0) * 0.5 +
+          0.5);
+    foods.push({
       maxQuantity: max,
-      quantity: random(max),
-      x: random() * width,
-      y: random() * height,
+      quantity: random() * max,
+      x,
+      y,
       growthRate: random(minGrowthRate, maxGrowthRate),
-    };
+    });
+  }
+  addFoodsToRtree(foods, rtree);
+  return foods;
+}
 
+function addFoodsToRtree(foods, rtree) {
+  for (const food of foods) {
     const w = 1;
     rtree.insert(
       {
@@ -266,8 +288,5 @@ function generateFood(config) {
       },
       food
     );
-
-    foods.push(food);
   }
-  return foods;
 }

diff --git a/003-feeding-time/index.html b/003-feeding-time/index.html
@@ -6,15 +6,15 @@
 	<link rel='stylesheet' href='../html/style.css' charset='utf-8'>
 
 	<meta property="og:image" content="image.jpg" />
-	<meta property="og:description" content="Session 002 - Follow Your Buddy" />
+	<meta property="og:description" content="Session 003 - Feeding Time" />
 	<meta name="twitter:card" content="summary_large_image">
 	<meta name="twitter:site" content="@TatumCreative">
 	<meta name="twitter:creator" content="@TatumCreative">
 	<meta name="twitter:image" content="image.jpg">
-	<meta name="twitter:title" content="Session 002 - Follow Your Buddy">
+	<meta name="twitter:title" content="Session 003 - Feeding Time">
 	<meta name="twitter:description" content="A 2d creative coding session by Greg Tatum.">
 
-	<title>Session 002 - Follow Your Buddy | Greg Tatum</title>
+	<title>Session 003 - Feeding Time | Greg Tatum</title>
 
 	<script>
 		// Only track on gregtatum.com
@@ -31,10 +31,10 @@
 </head>
 <body>
 	<div class='title'>
-		<a id="prev" href='../001-tick-tock'>&lt;</a>
+		<a id="prev" href='../002-follow-your-buddy'>&lt;</a>
 		<div>
-			<h1>Session 002</h1>
-			<h2>Follow Your Buddy</h2>
+			<h1>Session 003</h1>
+			<h2>Feeding Time</h2>
 		</div>
 		<a id="next" href='https://gregtatum.com/category/interactive/'>&gt;</a>
 	</div>

diff --git a/lib/shortcuts.js b/lib/shortcuts.js
@@ -13,7 +13,7 @@ module.exports = function shortcuts(seed, restart) {
       "s: create a screenshot link",
       "u: save the current seed to the URL",
       "left: previous session",
-      "right: next session"
+      "right: next session",
     ].join("\n")
   );
   window.addEventListener(
@@ -65,7 +65,7 @@ module.exports = function shortcuts(seed, restart) {
             restart();
           }
           break;
-        case "ArrowLeftt":
+        case "ArrowLeft":
           _click("#prev");
           break;
         case "ArrowRight":

diff --git a/002-follow-your-buddy/index.html b/002-follow-your-buddy/index.html
@@ -36,7 +36,7 @@
 			<h1>Session 002</h1>
 			<h2>Follow Your Buddy</h2>
 		</div>
-		<a id="next" href='https://gregtatum.com/category/interactive/'>&gt;</a>
+		<a id="next" href='../003-feeding-time'>&gt;</a>
 	</div>
 	<!-- Source available: github.com/gregtatum/sessions-2d/ -->
 	<script src='bundle.js'></script>

diff --git a/README.md b/README.md
@@ -4,5 +4,6 @@
 
 This project consists of individual sessions of 2d canvas programming, with the goal of creating some kind of output. The code itself is licensed under MIT, but the designs of the individual sessions are released under Creative Commons Attribution Non-Commercial license. This means you can re-use the components of the code as you see fit, but if you copy and paste an entire session, please observe the Creative Commons license. File an issue for consideration if you would like to use these designs for commercial uses, or if you have any questions about usage.
 
+[![Session 003-feeding-time](./003-feeding-time/thumb.jpg)](http://sessions-2d.gregtatum.com/003-feeding-time)
 [![Session 002-follow-your-buddy](./002-follow-your-buddy/thumb.jpg)](http://sessions-2d.gregtatum.com/002-follow-your-buddy)
 [![Session 001-tick-tock](./001-tick-tock/thumb.jpg)](http://sessions-2d.gregtatum.com/001-tick-tock)

diff --git a/003-feeding-time/README.md b/003-feeding-time/README.md
@@ -1,1 +1,1 @@
-This not a boids algorithm, but rather is a simple following algorithm. One entity randomly follows another entity, while a few randomly wander to help break up the uniformity.
+Small swimming entities find food near them, and eat it up.
